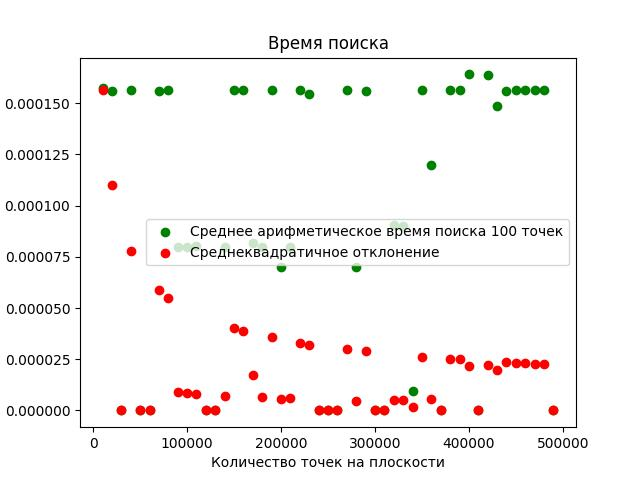
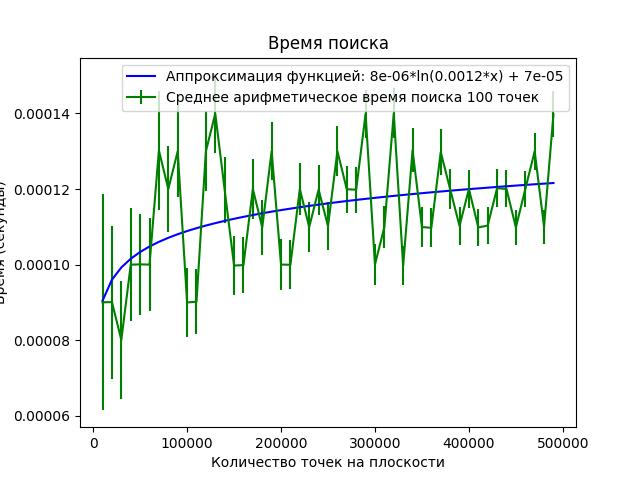
timing

diff --git a/timing.py b/timing.py
@@ -65,10 +65,18 @@ plt.savefig("Время построения.jpg")
 plt.show()
 
 """График для поиска по дереву"""
+def func2(x, a, b, c):
+    return a*np.log(x*b) + c
+
+
+popt, pcov = curve_fit(func2, N, search_time)
+print(popt)
+a, b, c = round(popt[0], 6), round(popt[1], 4), round(popt[2], 6)
+
 plt.title("Время поиска")
 
-plt.scatter(N, search_time, c="green", label=f"Среднее арифметическое время поиска {K} точек")
-plt.scatter(N, error_time, c="red", label=f"Среднеквадратичное отклонение")
+plt.errorbar(N, search_time, yerr=error_time, c="green", label=f"Среднее арифметическое время поиска {K} точек")
+plt.plot(N, func2(N, *popt), c="blue", label=f"Аппроксимация функцией: {a}*ln({b}*x) + {c}")
 
 plt.legend()
 plt.xlabel("Количество точек на плоскости")
